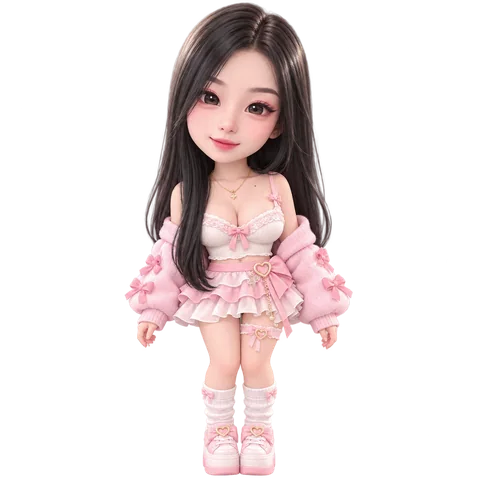
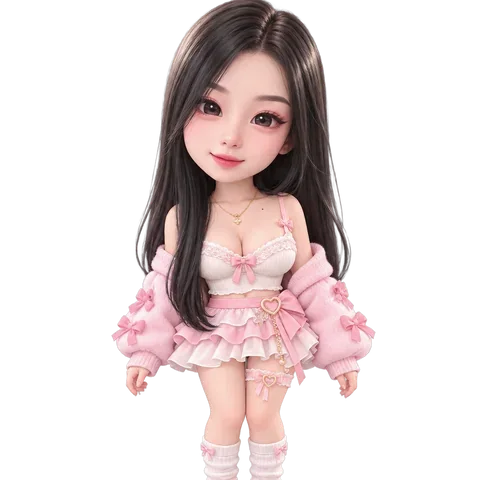
Custom mascot Cplai: poses re-aligned by face (same size/position) and tone-matched to stop jitter; admins see customer mascots under a separate locked label

Changed region(s): [[0.2188, 0.0, 0.7812, 1.0]]

diff --git a/packages/dashboard/app/dashboard/widgets/settings/page.tsx b/packages/dashboard/app/dashboard/widgets/settings/page.tsx
@@ -253,14 +253,14 @@ function FieldInput({ f, value, onChange }: { f: FieldDef; value: Values[string]
 
 function WidgetSettings() {
   const type = useSearchParams().get('type') ?? '';
-  const [customMascots, setCustomMascots] = useState<{ code: string; name: string }[]>([]);
-  useEffect(() => { if (type === 'mascot') api<{ mascots: { code: string; name: string }[] }>('/api/mascots/custom').then((r) => setCustomMascots(r.mascots)).catch(() => {}); }, [type]);
+  const [customMascots, setCustomMascots] = useState<{ code: string; name: string; mine?: boolean }[]>([]);
+  useEffect(() => { if (type === 'mascot') api<{ mascots: { code: string; name: string; mine?: boolean }[] }>('/api/mascots/custom').then((r) => setCustomMascots(r.mascots)).catch(() => {}); }, [type]);
   // มาสคอตสั่งทำ (หน้าลูกค้าเอง) → เพิ่มเป็นตัวเลือกแรกในกลุ่ม "มาสคอตของฉัน"
   const def = useMemo(() => {
     const base = WIDGET_SETTINGS[type];
     if (!base || type !== 'mascot' || !customMascots.length) return base;
     return { ...base, sections: base.sections.map((s) => ({ ...s, fields: s.fields.map((f) => f.key === 'char' && f.type === 'select'
-      ? { ...f, options: [...customMascots.map((m) => [m.code, m.name, '⭐ มาสคอตของฉัน', `/overlay/mascot/${m.code}/thumb.webp`] as [string, string, string, string]), ...f.options] } : f) })) };
+      ? { ...f, options: [...customMascots.map((m) => [m.code, m.name, m.mine ? '⭐ มาสคอตของฉัน' : '🔒 มาสคอตสั่งทำของลูกค้า (แอดมินเห็นคนเดียว)', `/overlay/mascot/${m.code}/thumb.webp`] as [string, string, string, string]), ...f.options] } : f) })) };
   }, [type, customMascots]);
   const t = useT();
   const [values, setValues] = useState<Values | null>(null);

diff --git a/packages/server/src/mascots/routes.ts b/packages/server/src/mascots/routes.ts
@@ -14,8 +14,9 @@ export async function mascotRoutes(app: FastifyInstance): Promise<void> {
   // มาสคอตสั่งทำของบัญชีนี้ (แอดมินเห็นทุกตัว ไว้ทดสอบ)
   app.get('/api/mascots/custom', { preHandler: requireUser }, async (req) => {
     const { userId } = getUser(req)!;
-    const list = isAdmin(req) ? Object.values(CUSTOM_MASCOTS).flat() : (CUSTOM_MASCOTS[userId] ?? []);
-    return { mascots: list };
+    const mine = (CUSTOM_MASCOTS[userId] ?? []).map((m) => ({ ...m, mine: true }));
+    const others = isAdmin(req) ? Object.entries(CUSTOM_MASCOTS).filter(([id]) => id !== userId).flatMap(([, l]) => l.map((m) => ({ ...m, mine: false }))) : [];
+    return { mascots: [...mine, ...others] };
   });
 
   // หลังบ้าน: ใครซื้อมาสคอตสั่งทำแล้วบ้าง

diff --git a/packages/dashboard/lib/i18n/en-widgets.ts b/packages/dashboard/lib/i18n/en-widgets.ts
@@ -601,4 +601,5 @@ export const EN_WIDGETS: Record<string, string> = {
   "🌟 จัดเต็ม": "🌟 Lots",
   "ปิด": "Off",
   "⭐ มาสคอตของฉัน": "⭐ My mascot",
+  "🔒 มาสคอตสั่งทำของลูกค้า (แอดมินเห็นคนเดียว)": "🔒 Customer custom mascots (admins only)",
 };
